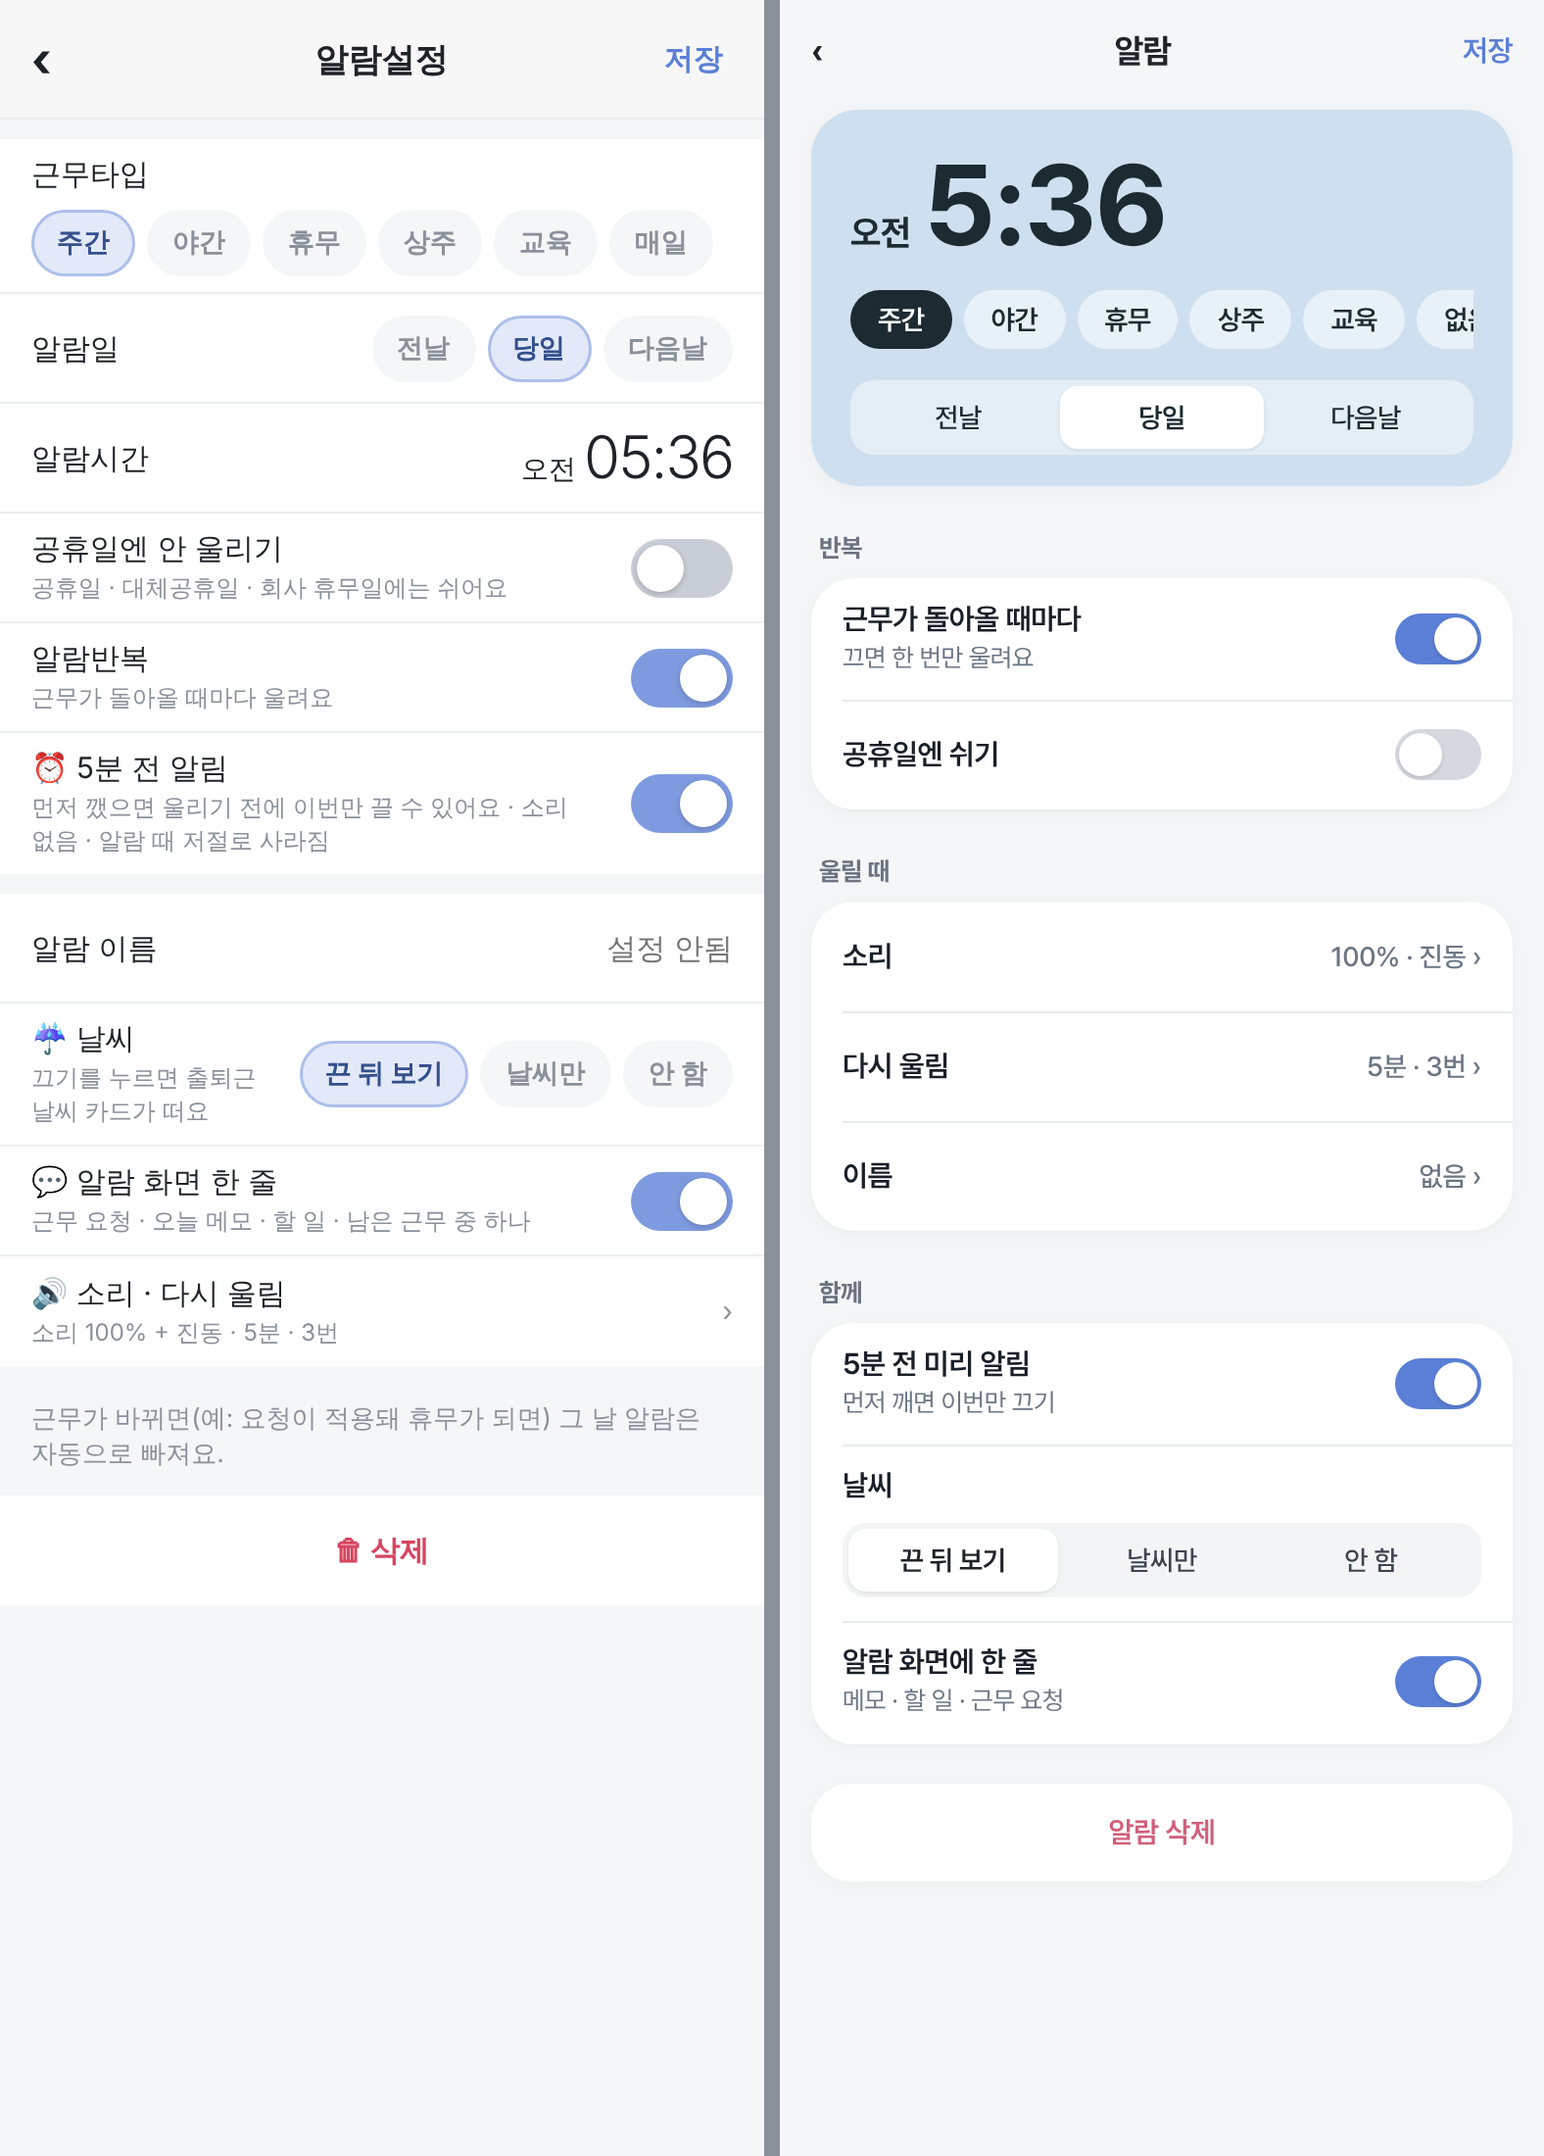
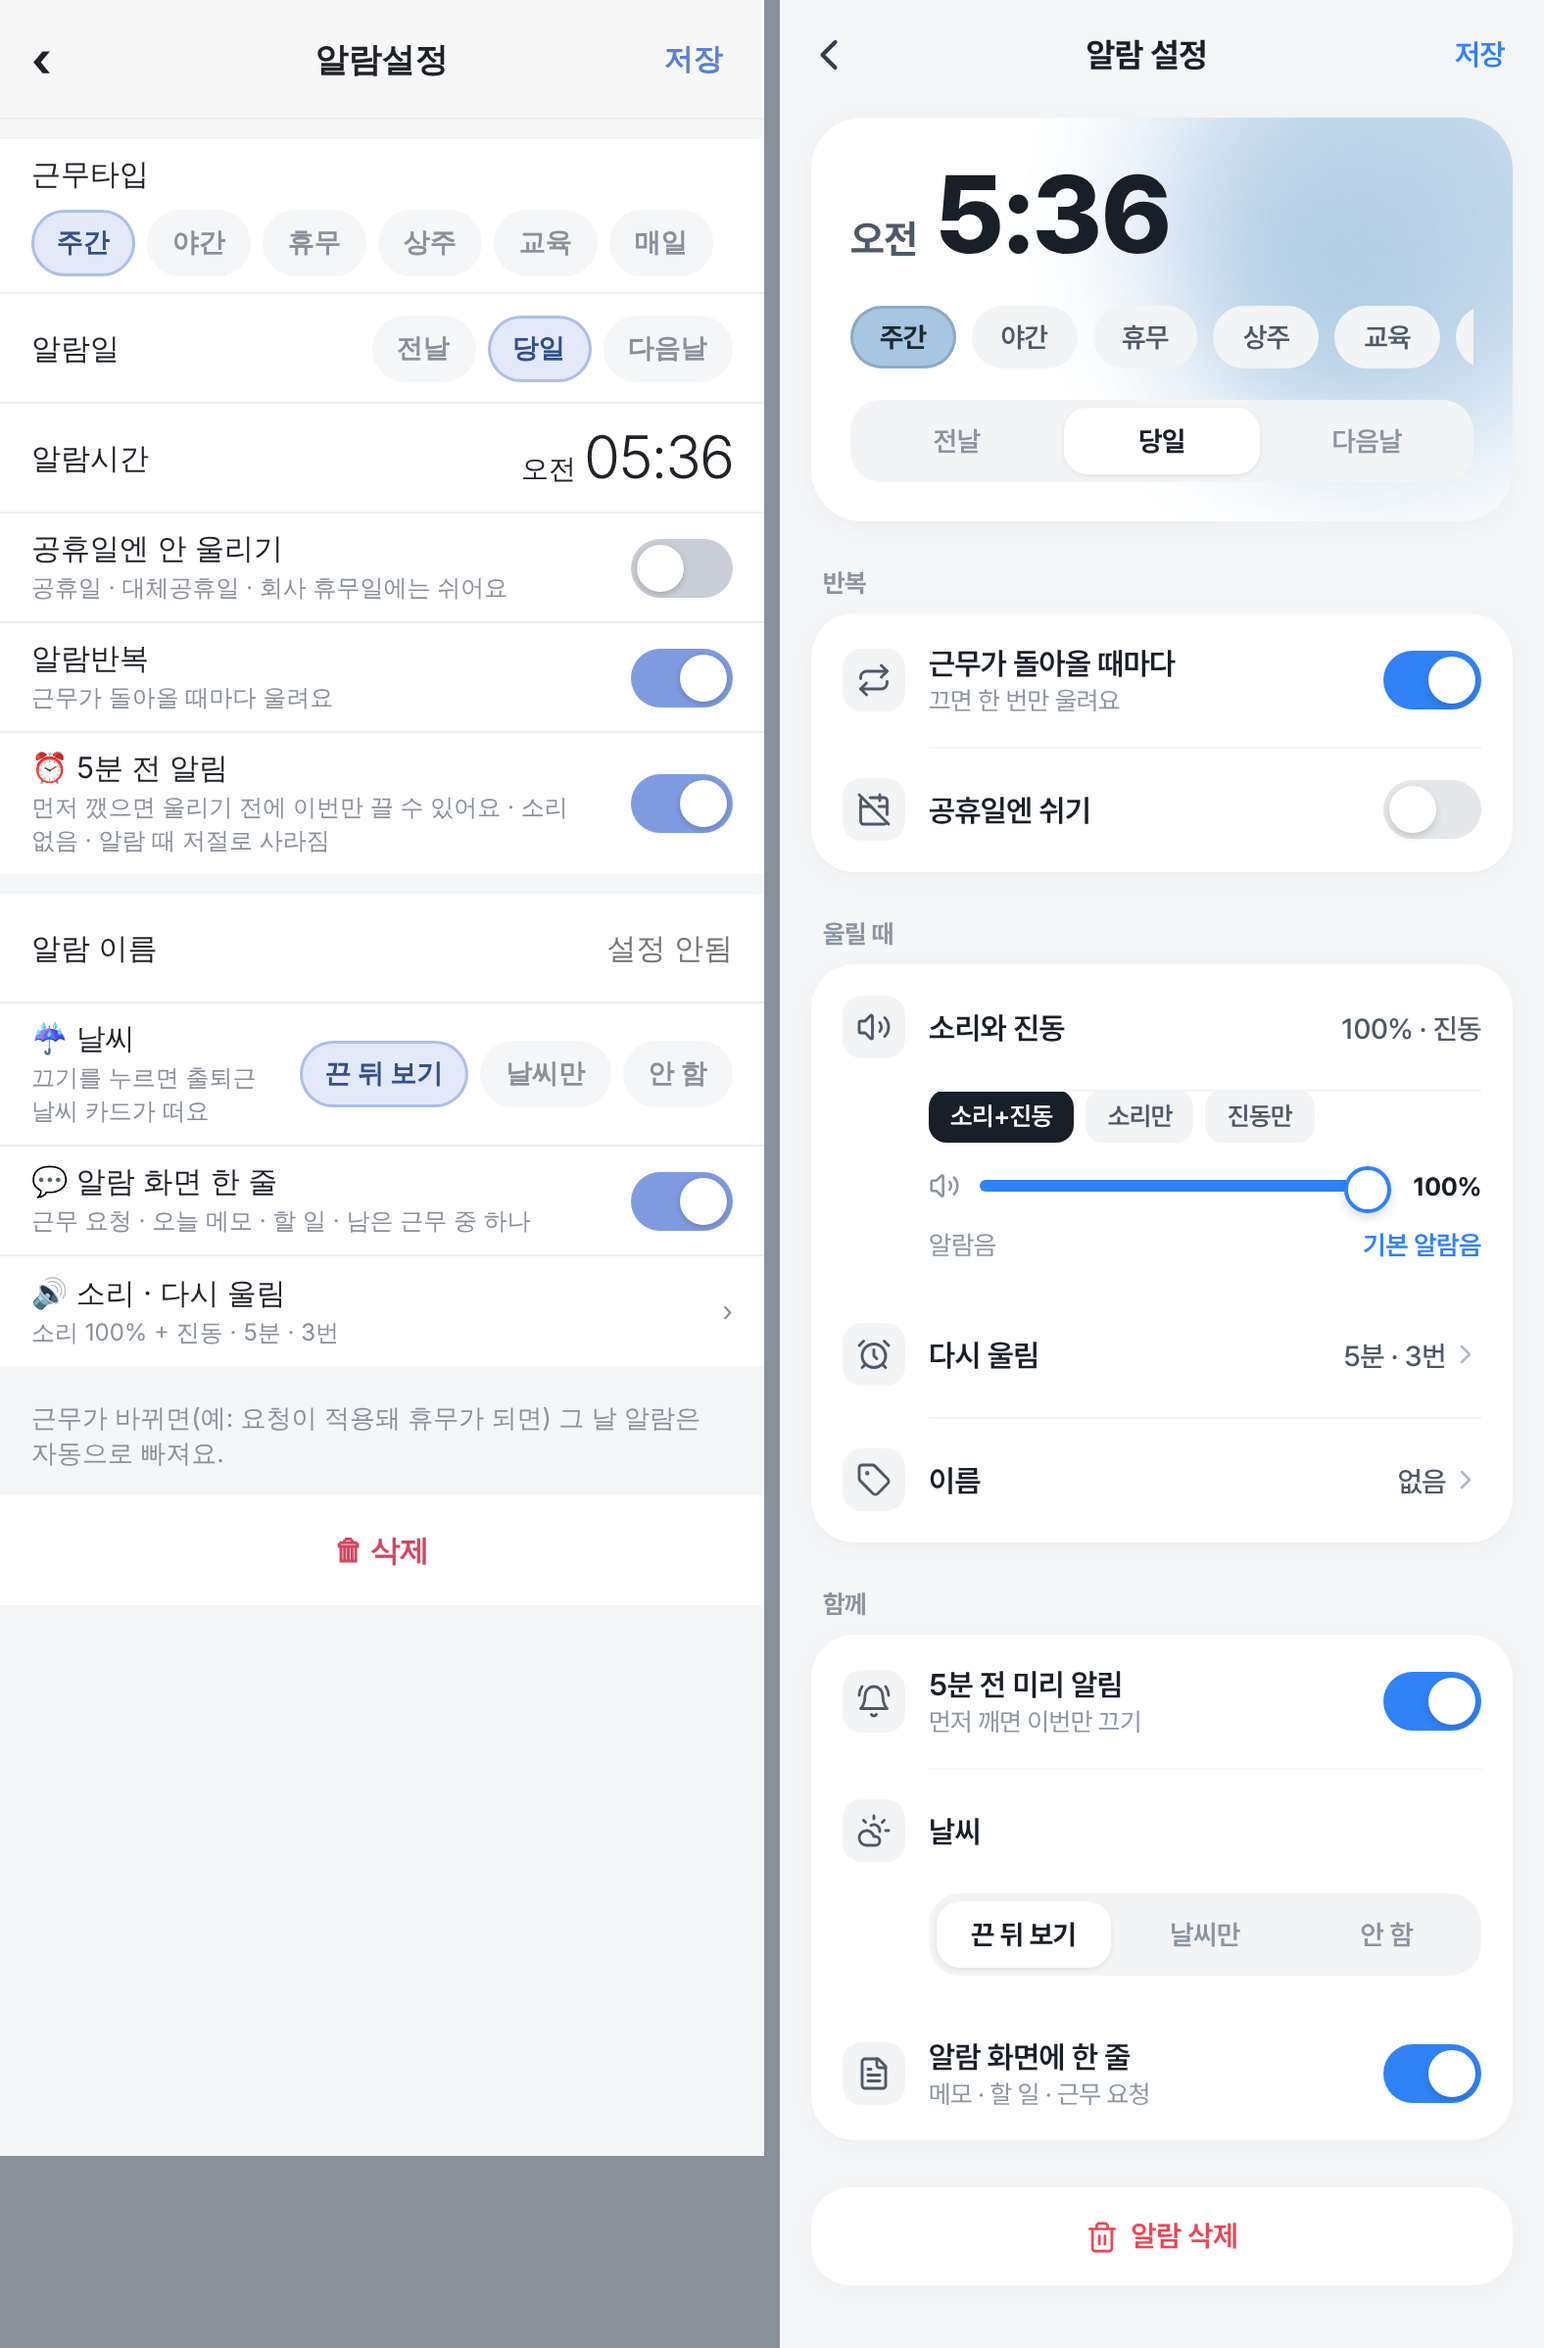
design: 알람 고치기 시안 6 (토스 느낌 · 근무 색 빛 번짐)
Claude-Session: https://claude.ai/code/session_01JTBnEvptp151JygSjZNCTX

diff --git a/design/alarm-edit/v6.html b/design/alarm-edit/v6.html
@@ -1,0 +1,258 @@
+<!doctype html><meta charset="utf-8"><meta name="viewport" content="width=device-width">
+<style>
+@font-face{font-family:Pretendard;src:url(PretendardVariable.woff2) format("woff2-variations");font-weight:45 920}
+:root{--sc:#a6c6e2;--sf:#1c2a31;--ink:#191f28;--ink2:#4e5968;--ink3:#8b95a1;--bg:#f4f6f8;--card:#fff;--fill:#f2f4f6;--acc:#3182f6}
+*{box-sizing:border-box}body{margin:0;background:var(--bg);color:var(--ink);font-family:Pretendard,sans-serif;letter-spacing:-.2px;-webkit-font-smoothing:antialiased}
+.top{height:56px;display:flex;align-items:center;justify-content:space-between;padding:0 12px}.top .b{color:#333d4b;display:flex}.top h1{font-size:17px;font-weight:700;margin:0}.top .s{color:var(--acc);font-weight:600;font-size:15px;padding:6px 8px}
+main{padding:4px 16px 32px}
+.hero{position:relative;overflow:hidden;background:var(--card);border-radius:26px;padding:22px 20px 20px;box-shadow:0 2px 12px rgba(15,23,42,.04)}
+.glow{position:absolute;top:-70px;right:-60px;width:240px;height:240px;border-radius:50%;background:var(--sc);filter:blur(40px);opacity:.75;pointer-events:none}
+.glow2{position:absolute;top:30px;right:40px;width:110px;height:110px;border-radius:50%;background:var(--sc);filter:blur(30px);opacity:.5}
+.hero>*:not(.glow):not(.glow2){position:relative}
+.tm{display:flex;align-items:baseline;gap:8px}.tm small{font-size:20px;font-weight:700;color:var(--ink2)}.tm b{font-size:56px;font-weight:800;letter-spacing:-2px;line-height:1;font-variant-numeric:tabular-nums}
+.pills{display:flex;gap:8px;margin-top:18px;overflow:hidden}.p{flex:none;padding:8px 15px;border-radius:999px;background:var(--fill);color:var(--ink2);font-size:14px;font-weight:600}.p.on{background:var(--sc);color:var(--sf);font-weight:700;box-shadow:inset 0 0 0 1.5px color-mix(in srgb,var(--sf) 18%,transparent)}
+.seg{display:grid;grid-template-columns:repeat(3,1fr);gap:4px;background:var(--fill);padding:4px;border-radius:16px;margin-top:16px}.seg span{text-align:center;padding:9px 0;border-radius:12px;font-size:14px;font-weight:600;color:var(--ink3)}.seg span.on{background:#fff;color:var(--ink);font-weight:700;box-shadow:0 1px 3px rgba(0,0,0,.08)}
+h2{font-size:13px;font-weight:700;color:var(--ink3);margin:24px 6px 8px}
+.g{background:var(--card);border-radius:22px;box-shadow:0 2px 12px rgba(15,23,42,.03),0 1px 2px rgba(15,23,42,.02);overflow:hidden}
+.r{display:flex;align-items:center;gap:12px;padding:16px;position:relative}.r+.r::before,.r+.sd::before{content:'';position:absolute;top:0;left:60px;right:16px;height:1px;background:#f2f4f6}
+.ti{width:32px;height:32px;border-radius:10px;background:var(--fill);color:var(--ink2);display:flex;align-items:center;justify-content:center;flex:none}
+.l{flex:1;min-width:0}.n{font-size:15.5px;font-weight:600}.d{font-size:13px;color:var(--ink3);margin-top:2px}
+.v{display:flex;align-items:center;gap:2px;font-size:14.5px;font-weight:500;color:var(--ink2);flex:none}.v svg{color:#b0b8c1}
+.tg{width:50px;height:30px;border-radius:15px;background:#e5e8eb;position:relative;flex:none}.tg::after{content:'';position:absolute;top:3px;left:3px;width:24px;height:24px;border-radius:50%;background:#fff;box-shadow:0 2px 4px rgba(0,0,0,.15)}.tg.on{background:var(--acc)}.tg.on::after{left:23px}
+.sd{padding:0 16px 16px 60px;position:relative}
+.mini{display:flex;gap:6px}.mp{padding:6px 11px;border-radius:9px;background:var(--fill);font-size:13px;font-weight:600;color:var(--ink2)}.mp.on{background:var(--ink);color:#fff}
+.sl{display:flex;align-items:center;gap:10px;margin-top:14px}.trk{flex:1;height:6px;border-radius:3px;background:var(--acc);position:relative}.trk::after{content:'';position:absolute;right:-2px;top:-7px;width:20px;height:20px;border-radius:50%;background:#fff;border:2px solid var(--acc);box-shadow:0 2px 6px rgba(0,0,0,.15)}.sl b{font-size:13px;width:38px;text-align:right}
+.tone{display:flex;justify-content:space-between;margin-top:14px;font-size:13.5px;color:var(--ink3)}.tone span:last-child{color:var(--acc);font-weight:600}
+.wseg{margin:0 16px 16px 60px}
+.del{margin-top:24px;background:var(--card);border-radius:20px;padding:16px;display:flex;justify-content:center;align-items:center;gap:6px;color:#f04452;font-weight:600;font-size:15px;box-shadow:0 2px 12px rgba(15,23,42,.03)}
+</style>
+<div class="top"><span class="b"><svg
+  class=" lucide lucide-chevron-left"
+  xmlns="http://www.w3.org/2000/svg"
+  width="26"
+  height="26"
+  viewBox="0 0 24 24"
+  fill="none"
+  stroke="currentColor"
+  stroke-width="1.9"
+  stroke-linecap="round"
+  stroke-linejoin="round"
+>
+  <path d="m15 18-6-6 6-6" />
+</svg></span><h1>알람 설정</h1><span class="s">저장</span></div>
+<main>
+<section class="hero"><div class="glow"></div><div class="glow2"></div>
+ <div class="tm"><small>오전</small><b>5:36</b></div>
+ <div class="pills"><span class="p on">주간</span><span class="p">야간</span><span class="p">휴무</span><span class="p">상주</span><span class="p">교육</span><span class="p">없음</span></div>
+ <div class="seg"><span>전날</span><span class="on">당일</span><span>다음날</span></div>
+</section>
+<h2>반복</h2><div class="g">
+<div class="r"><span class="ti"><svg
+  class=" lucide lucide-repeat"
+  xmlns="http://www.w3.org/2000/svg"
+  width="18"
+  height="18"
+  viewBox="0 0 24 24"
+  fill="none"
+  stroke="currentColor"
+  stroke-width="1.9"
+  stroke-linecap="round"
+  stroke-linejoin="round"
+>
+  <path d="m17 2 4 4-4 4" />
+  <path d="M3 11v-1a4 4 0 0 1 4-4h14" />
+  <path d="m7 22-4-4 4-4" />
+  <path d="M21 13v1a4 4 0 0 1-4 4H3" />
+</svg></span><div class="l"><div class="n">근무가 돌아올 때마다</div><div class="d">끄면 한 번만 울려요</div></div><span class="tg on"></span></div>
+<div class="r"><span class="ti"><svg
+  class=" lucide lucide-calendar-off"
+  xmlns="http://www.w3.org/2000/svg"
+  width="18"
+  height="18"
+  viewBox="0 0 24 24"
+  fill="none"
+  stroke="currentColor"
+  stroke-width="1.9"
+  stroke-linecap="round"
+  stroke-linejoin="round"
+>
+  <path d="M4.2 4.2A2 2 0 0 0 3 6v14a2 2 0 0 0 2 2h14a2 2 0 0 0 1.82-1.18" />
+  <path d="M21 15.5V6a2 2 0 0 0-2-2H9.5" />
+  <path d="M16 2v4" />
+  <path d="M3 10h7" />
+  <path d="M21 10h-5.5" />
+  <path d="m2 2 20 20" />
+</svg></span><div class="l"><div class="n">공휴일엔 쉬기</div></div><span class="tg"></span></div>
+</div>
+<h2>울릴 때</h2><div class="g">
+<div class="r"><span class="ti"><svg
+  class=" lucide lucide-volume-2"
+  xmlns="http://www.w3.org/2000/svg"
+  width="18"
+  height="18"
+  viewBox="0 0 24 24"
+  fill="none"
+  stroke="currentColor"
+  stroke-width="1.9"
+  stroke-linecap="round"
+  stroke-linejoin="round"
+>
+  <path d="M11 4.702a.705.705 0 0 0-1.203-.498L6.413 7.587A1.4 1.4 0 0 1 5.416 8H3a1 1 0 0 0-1 1v6a1 1 0 0 0 1 1h2.416a1.4 1.4 0 0 1 .997.413l3.383 3.384A.705.705 0 0 0 11 19.298z" />
+  <path d="M16 9a5 5 0 0 1 0 6" />
+  <path d="M19.364 18.364a9 9 0 0 0 0-12.728" />
+</svg></span><div class="l"><div class="n">소리와 진동</div></div><span class="v">100% · 진동</span></div>
+<div class="sd"><div class="mini"><span class="mp on">소리+진동</span><span class="mp">소리만</span><span class="mp">진동만</span></div>
+<div class="sl"><span style="color:#8b95a1;display:flex"><svg
+  class=" lucide lucide-volume-2"
+  xmlns="http://www.w3.org/2000/svg"
+  width="16"
+  height="16"
+  viewBox="0 0 24 24"
+  fill="none"
+  stroke="currentColor"
+  stroke-width="1.9"
+  stroke-linecap="round"
+  stroke-linejoin="round"
+>
+  <path d="M11 4.702a.705.705 0 0 0-1.203-.498L6.413 7.587A1.4 1.4 0 0 1 5.416 8H3a1 1 0 0 0-1 1v6a1 1 0 0 0 1 1h2.416a1.4 1.4 0 0 1 .997.413l3.383 3.384A.705.705 0 0 0 11 19.298z" />
+  <path d="M16 9a5 5 0 0 1 0 6" />
+  <path d="M19.364 18.364a9 9 0 0 0 0-12.728" />
+</svg></span><div class="trk"></div><b>100%</b></div>
+<div class="tone"><span>알람음</span><span>기본 알람음</span></div></div>
+<div class="r"><span class="ti"><svg
+  class=" lucide lucide-alarm-clock"
+  xmlns="http://www.w3.org/2000/svg"
+  width="18"
+  height="18"
+  viewBox="0 0 24 24"
+  fill="none"
+  stroke="currentColor"
+  stroke-width="1.9"
+  stroke-linecap="round"
+  stroke-linejoin="round"
+>
+  <circle cx="12" cy="13" r="8" />
+  <path d="M12 9v4l2 2" />
+  <path d="M5 3 2 6" />
+  <path d="m22 6-3-3" />
+  <path d="M6.38 18.7 4 21" />
+  <path d="M17.64 18.67 20 21" />
+</svg></span><div class="l"><div class="n">다시 울림</div></div><span class="v">5분 · 3번<svg
+  class=" lucide lucide-chevron-right"
+  xmlns="http://www.w3.org/2000/svg"
+  width="16"
+  height="16"
+  viewBox="0 0 24 24"
+  fill="none"
+  stroke="currentColor"
+  stroke-width="1.9"
+  stroke-linecap="round"
+  stroke-linejoin="round"
+>
+  <path d="m9 18 6-6-6-6" />
+</svg></span></div>
+<div class="r"><span class="ti"><svg
+  class=" lucide lucide-tag"
+  xmlns="http://www.w3.org/2000/svg"
+  width="18"
+  height="18"
+  viewBox="0 0 24 24"
+  fill="none"
+  stroke="currentColor"
+  stroke-width="1.9"
+  stroke-linecap="round"
+  stroke-linejoin="round"
+>
+  <path d="M12.586 2.586A2 2 0 0 0 11.172 2H4a2 2 0 0 0-2 2v7.172a2 2 0 0 0 .586 1.414l8.704 8.704a2.426 2.426 0 0 0 3.42 0l6.58-6.58a2.426 2.426 0 0 0 0-3.42z" />
+  <circle cx="7.5" cy="7.5" r=".5" fill="currentColor" />
+</svg></span><div class="l"><div class="n">이름</div></div><span class="v">없음<svg
+  class=" lucide lucide-chevron-right"
+  xmlns="http://www.w3.org/2000/svg"
+  width="16"
+  height="16"
+  viewBox="0 0 24 24"
+  fill="none"
+  stroke="currentColor"
+  stroke-width="1.9"
+  stroke-linecap="round"
+  stroke-linejoin="round"
+>
+  <path d="m9 18 6-6-6-6" />
+</svg></span></div>
+</div>
+<h2>함께</h2><div class="g">
+<div class="r"><span class="ti"><svg
+  class=" lucide lucide-bell-ring"
+  xmlns="http://www.w3.org/2000/svg"
+  width="18"
+  height="18"
+  viewBox="0 0 24 24"
+  fill="none"
+  stroke="currentColor"
+  stroke-width="1.9"
+  stroke-linecap="round"
+  stroke-linejoin="round"
+>
+  <path d="M6 8a6 6 0 0 1 12 0c0 7 3 9 3 9H3s3-2 3-9" />
+  <path d="M10.3 21a1.94 1.94 0 0 0 3.4 0" />
+  <path d="M4 2C2.8 3.7 2 5.7 2 8" />
+  <path d="M22 8c0-2.3-.8-4.3-2-6" />
+</svg></span><div class="l"><div class="n">5분 전 미리 알림</div><div class="d">먼저 깨면 이번만 끄기</div></div><span class="tg on"></span></div>
+<div class="r"><span class="ti"><svg
+  class=" lucide lucide-cloud-sun"
+  xmlns="http://www.w3.org/2000/svg"
+  width="18"
+  height="18"
+  viewBox="0 0 24 24"
+  fill="none"
+  stroke="currentColor"
+  stroke-width="1.9"
+  stroke-linecap="round"
+  stroke-linejoin="round"
+>
+  <path d="M12 2v2" />
+  <path d="m4.93 4.93 1.41 1.41" />
+  <path d="M20 12h2" />
+  <path d="m19.07 4.93-1.41 1.41" />
+  <path d="M15.947 12.65a4 4 0 0 0-5.925-4.128" />
+  <path d="M13 22H7a5 5 0 1 1 4.9-6H13a3 3 0 0 1 0 6Z" />
+</svg></span><div class="l"><div class="n">날씨</div></div></div>
+<div class="seg wseg"><span class="on">끈 뒤 보기</span><span>날씨만</span><span>안 함</span></div>
+<div class="r"><span class="ti"><svg
+  class=" lucide lucide-file-text"
+  xmlns="http://www.w3.org/2000/svg"
+  width="18"
+  height="18"
+  viewBox="0 0 24 24"
+  fill="none"
+  stroke="currentColor"
+  stroke-width="1.9"
+  stroke-linecap="round"
+  stroke-linejoin="round"
+>
+  <path d="M15 2H6a2 2 0 0 0-2 2v16a2 2 0 0 0 2 2h12a2 2 0 0 0 2-2V7Z" />
+  <path d="M14 2v4a2 2 0 0 0 2 2h4" />
+  <path d="M10 9H8" />
+  <path d="M16 13H8" />
+  <path d="M16 17H8" />
+</svg></span><div class="l"><div class="n">알람 화면에 한 줄</div><div class="d">메모 · 할 일 · 근무 요청</div></div><span class="tg on"></span></div>
+</div>
+<div class="del"><svg
+  class=" lucide lucide-trash-2"
+  xmlns="http://www.w3.org/2000/svg"
+  width="17"
+  height="17"
+  viewBox="0 0 24 24"
+  fill="none"
+  stroke="currentColor"
+  stroke-width="1.9"
+  stroke-linecap="round"
+  stroke-linejoin="round"
+>
+  <path d="M3 6h18" />
+  <path d="M19 6v14c0 1-1 2-2 2H7c-1 0-2-1-2-2V6" />
+  <path d="M8 6V4c0-1 1-2 2-2h4c1 0 2 1 2 2v2" />
+  <line x1="10" x2="10" y1="11" y2="17" />
+  <line x1="14" x2="14" y1="11" y2="17" />
+</svg>알람 삭제</div>
+</main>

diff --git a/docs/TODO.md b/docs/TODO.md
@@ -2443,6 +2443,7 @@
 - 묶음: 반복(근무가 돌아올 때마다 · 공휴일엔 쉬기) / 울릴 때(소리 · 다시 울림 · 이름 — 오른쪽에 값) / 함께(5분 전 미리 알림 · 날씨 3칸 · 알람 화면에 한 줄). 아이콘 · 이모지 없음 (사용자: 미니멀).
 - 글씨 진하게(설명 회색도 진하게) · 설명은 꼭 필요한 것만 한 줄.
 - 시안 5: 글꼴 Pretendard(가변 woff2 2MB · assets/fonts · OFL) · 큰 시간 굵게 · 카드 옅은 그림자 · 둥근 모서리 22. 글꼴은 앱 전체에 적용할지 만들 때 판단(전 화면 글씨가 진해짐).
+- 시안 6 (토스 느낌 · design/alarm-edit/v6.html): 위 칸 흰 바탕 + 오른쪽 위 근무 색 빛 번짐(진하게) · 고른 근무 칩 = 근무 색 · 줄마다 회색 칸 안 선 아이콘(lucide · 한 가지 색) · 소리와 진동은 펼쳐서 방식(소리+진동/소리만/진동만) · 크기 막대 · 알람음 · 토글 파랑 · 삭제에 휴지통 선 아이콘.
 - (아래는 처음 생각)
 - 문제: 줄 9개가 한 줄로 쭉 · 설명이 " · " 이어 붙인 메모 같음 ("먼저 깼으면 … · 소리 없음 · 알람 때 저절로 사라짐").
 - 제안 (시안 먼저):
